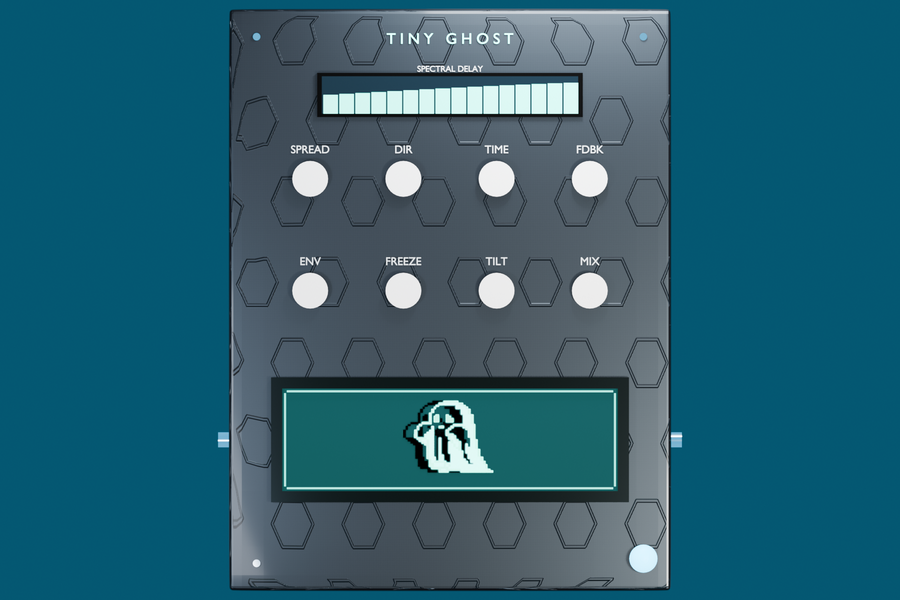
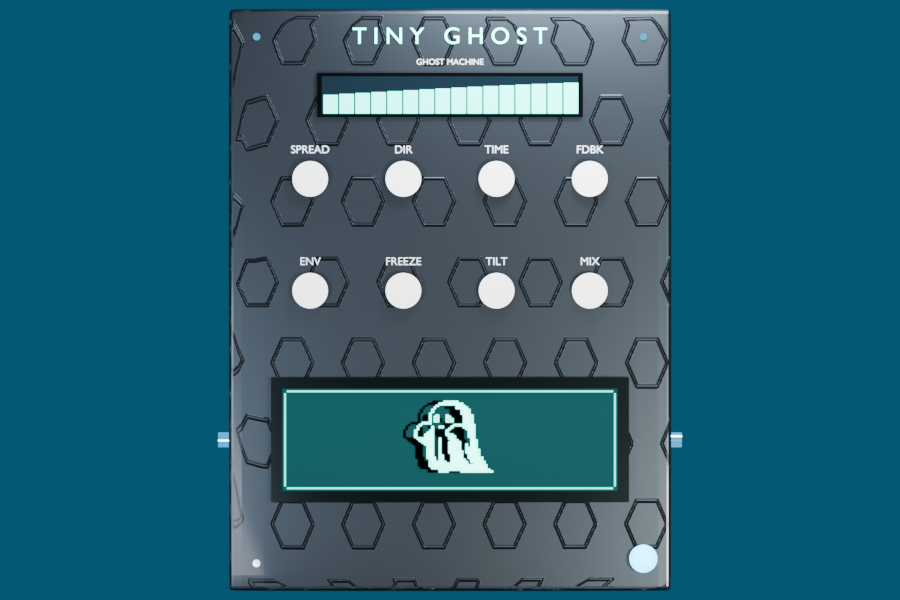
Fix gain: cherry-pick v1.6 OLA normalization (2/3 for Hann window)

diff --git a/Source/PluginEditor.cpp b/Source/PluginEditor.cpp
@@ -88,6 +88,14 @@ void GhostDelayEditor::timerCallback()
     // Feed detected key to spectrum display
     auto keyInfo = processor.getDetectedKey();
     spectrumDisplay.setDetectedKey(keyInfo.rootNote, keyInfo.isMinor, keyInfo.confidence);
+
+    // Self-capture: check for trigger file
+    juce::File trigger("/tmp/ghost_capture_trigger");
+    if (trigger.existsAsFile())
+    {
+        trigger.deleteFile();
+        SelfCapture::capture(this);
+    }
 }
 
 void GhostDelayEditor::paint(juce::Graphics& g)
@@ -160,7 +168,7 @@ void GhostDelayEditor::resized()
     ghostRenderer.setSpriteOffset(282, 388);
 
     // Spectrum display — Display_Screen area: (327, 86, 245x36)
-    spectrumDisplay.setBounds(327, 86, 245, 36);
+    spectrumDisplay.setBounds(316, 72, 266, 45);
 
     // Bypass button over LED: (643, 558) with padding
     bypassButton.setBounds(623, 538, 54, 54);

diff --git a/Source/SpectralDelay.cpp b/Source/SpectralDelay.cpp
@@ -303,7 +303,9 @@ void SpectralDelay::processHop(int channel)
     fft.performRealOnlyInverseTransform(fftWorkspace.data());
 
     window.multiplyWithWindowingTable(fftWorkspace.data(), FFT_SIZE);
-    float gain = 1.0f / (FFT_SIZE * 0.375f);
+    // JUCE Apple vDSP FFT: forward(0.5 cancel vDSP 2x) + inverse(1/N cancel unnorm)
+    // Round trip = unity. Only need to compensate Hann×Hann OLA sum = 1.5
+    float gain = 2.0f / 3.0f;
 
     for (int i = 0; i < FFT_SIZE; ++i)
     {

diff --git a/Source/PluginEditor.h b/Source/PluginEditor.h
@@ -4,6 +4,7 @@
 #include "FilmstripKnob.h"
 #include "GhostRenderer.h"
 #include "SpectrumDisplay.h"
+#include "SelfCapture.h"
 
 class GhostDelayEditor : public juce::AudioProcessorEditor, private juce::Timer
 {
